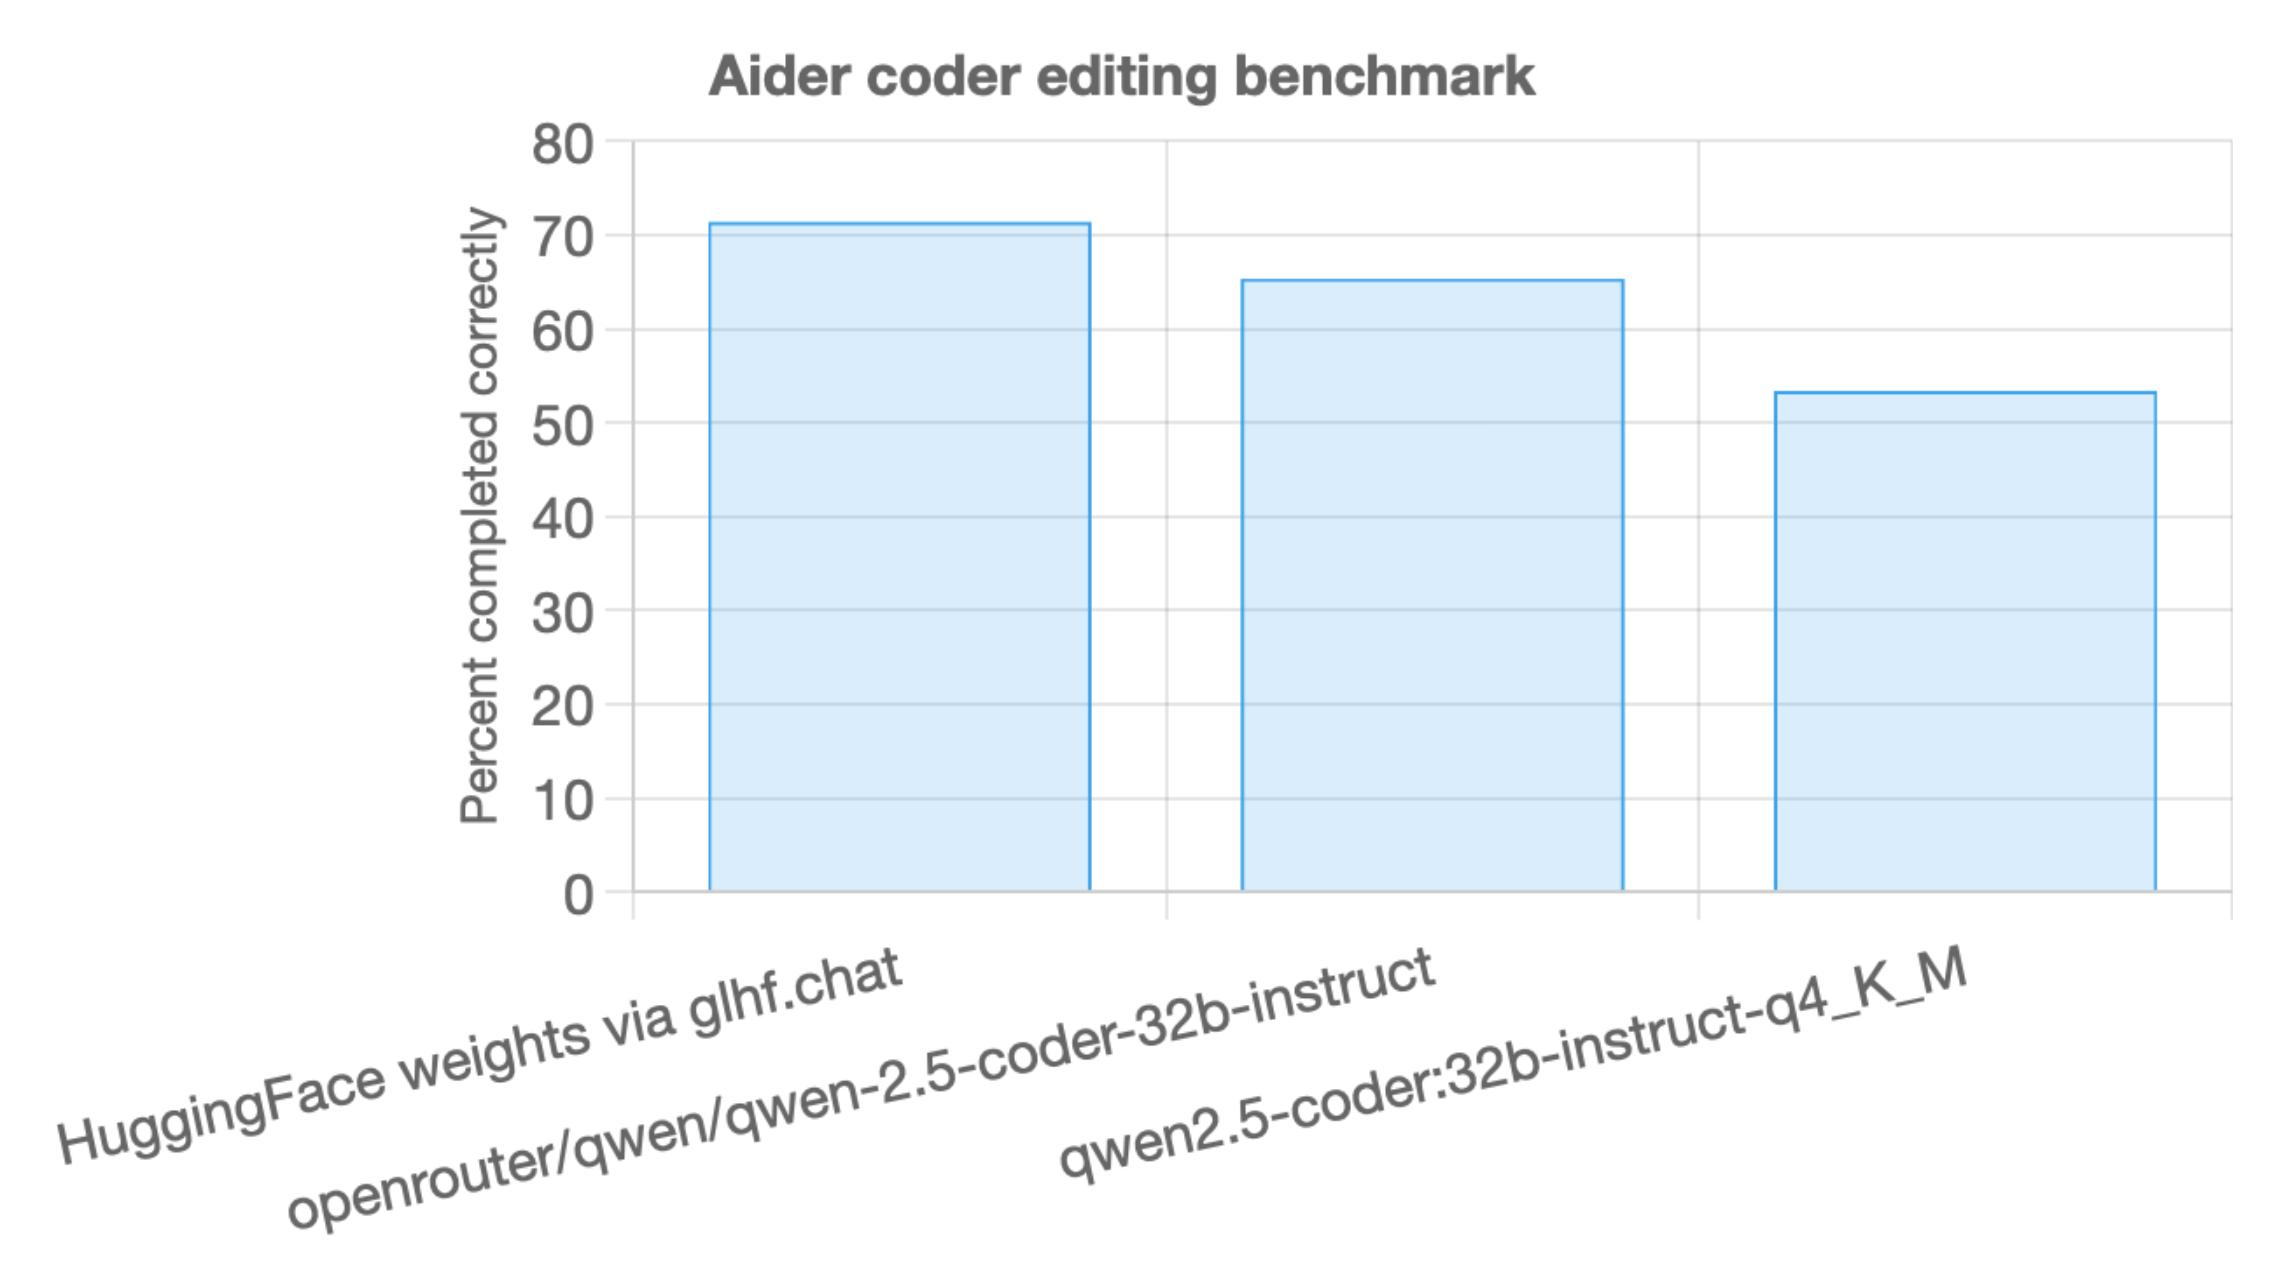
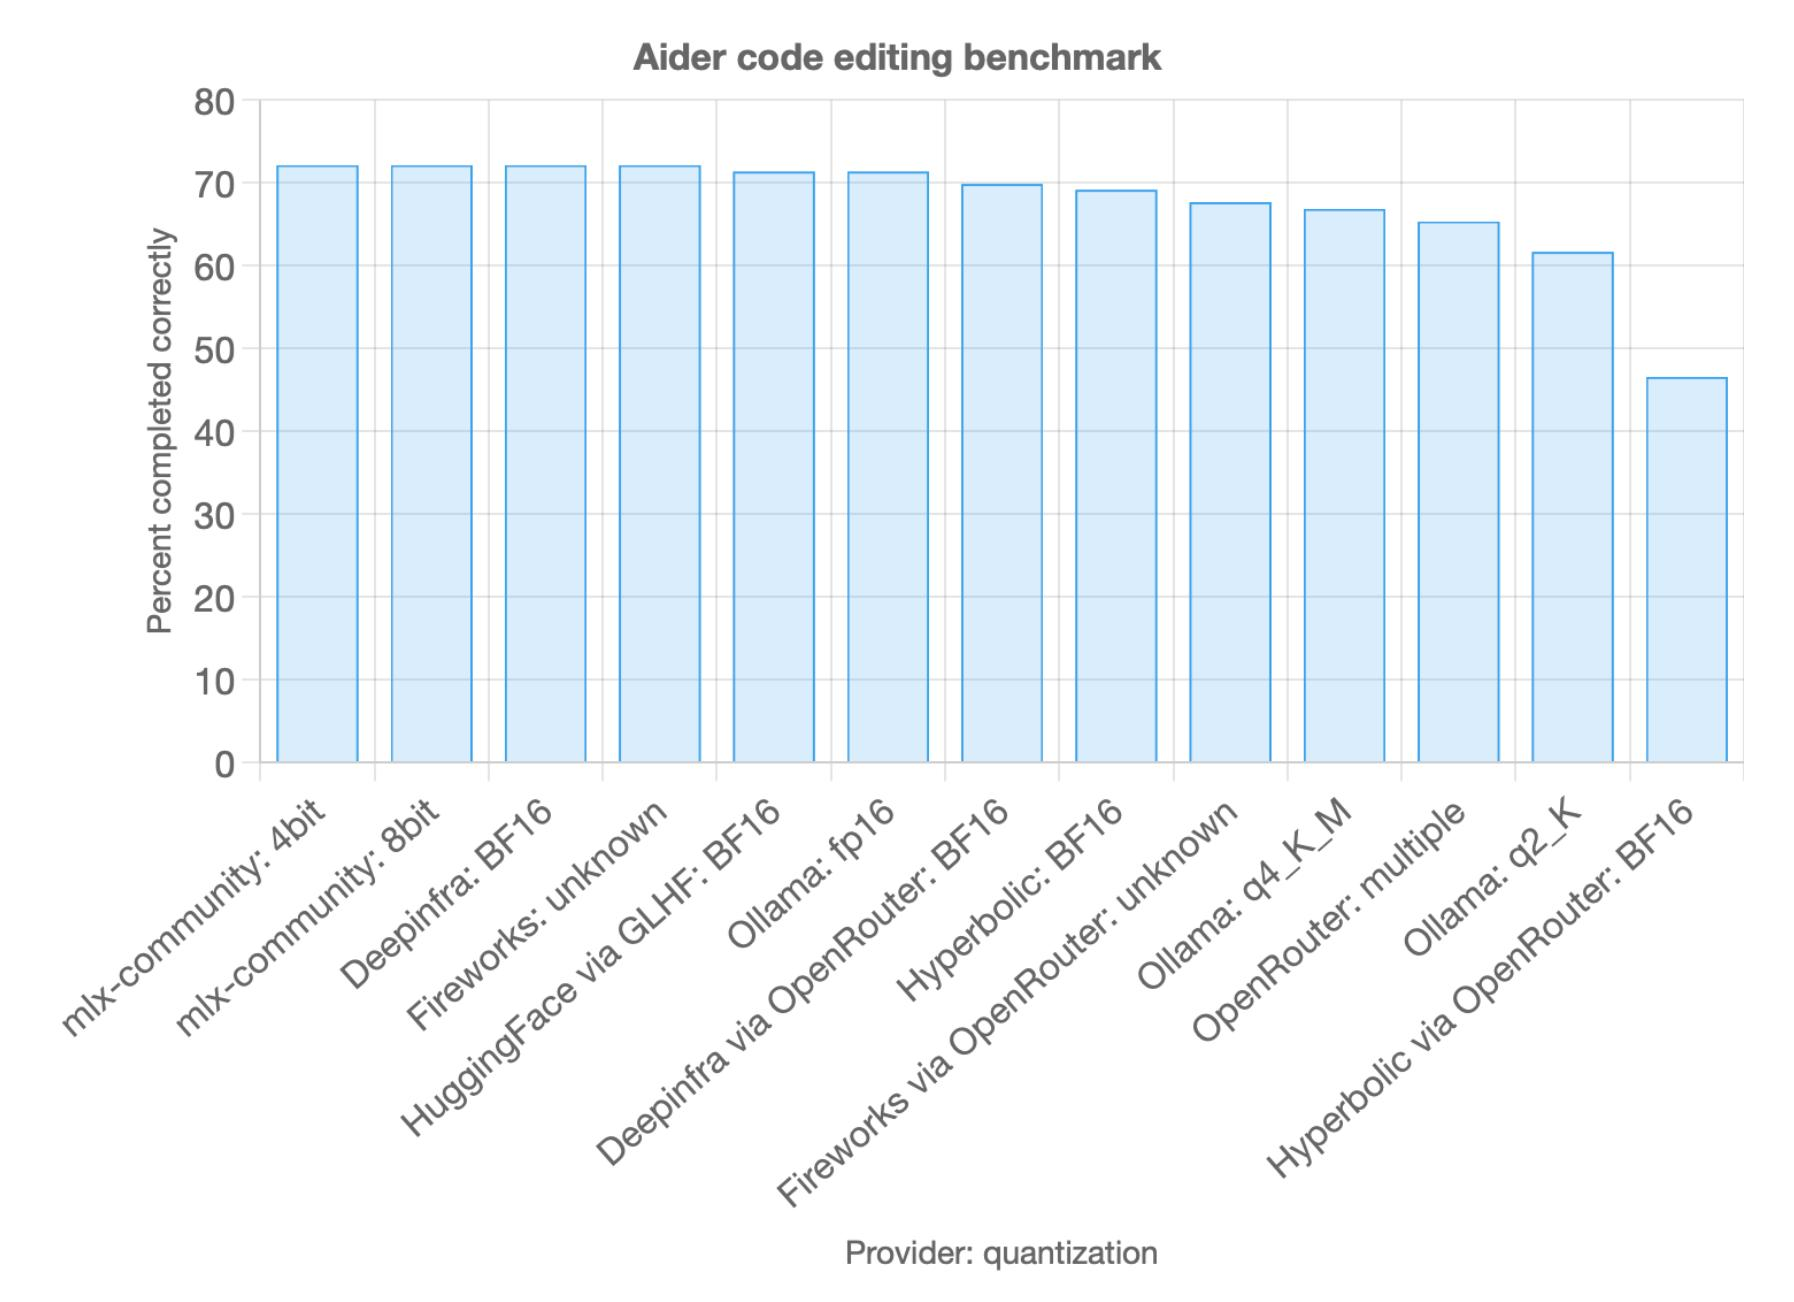
copy

diff --git a/aider/website/_posts/2024-11-21-quantization.md b/aider/website/_posts/2024-11-21-quantization.md
@@ -10,6 +10,7 @@ nav_exclude: true
 {% endif %}
 
 # Quantization matters
+{: .no_toc }
 
 Open source models like Qwen 2.5 32B Instruct are performing very well on
 aider's code editing benchmark, rivaling closed source frontier models.
@@ -18,8 +19,7 @@ can impact code editing skill.
 Heavily quantized models are often used by cloud API providers
 and local model servers like Ollama or MLX.
 
-
-The graph above compares different versions of the Qwen 2.5 Coder 32B Instruct model,
+The graph and table below compares different versions of the Qwen 2.5 Coder 32B Instruct model,
 served both locally and from cloud providers.
 
 - The [HuggingFace BF16 weights](https://huggingface.co/Qwen/Qwen2.5-Coder-32B-Instruct) served via [glhf.chat](https://glhf.chat).
@@ -38,8 +38,16 @@ It's unclear why this is happening to just this provider.
 The other providers available through OpenRouter perform similarly
 when their API is accessed directly.
 
+### Sections
+{: .no_toc }
+
+- TOC
+{:toc}
+
 {: .note }
 This article is being updated as additional benchmark runs complete.
+
+## Benchmark results
 
 <canvas id="quantChart" width="800" height="600" style="margin: 20px 0"></canvas>
 <script src="https://cdn.jsdelivr.net/npm/chart.js"></script>
